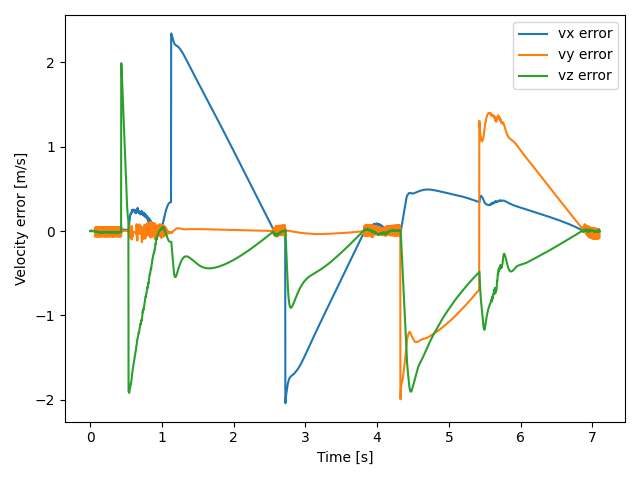
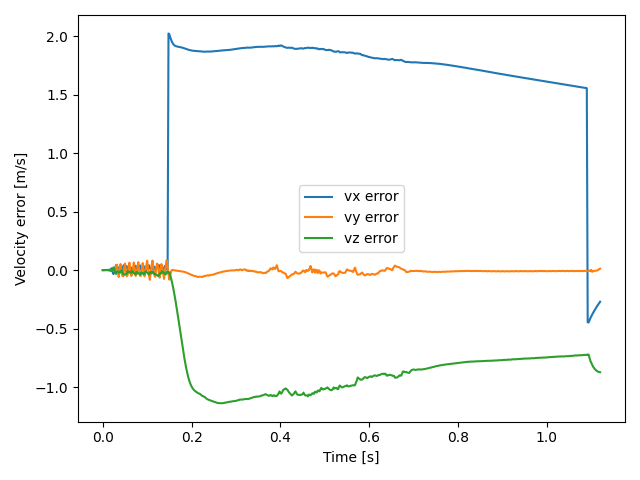
Add frequency control

diff --git a/stand_then_fly.py b/stand_then_fly.py
@@ -21,7 +21,7 @@ kp_thigh, kd_thigh = 80.0, 6.0
 kp_calf, kd_calf = 60.0, 4.0
 
 # PID gains for body position and orientation
-Kv = np.diag([40.0, 60.0, 40.0])
+Kv = np.diag([80.0, 80.0, 80.0])
 Ki_v = np.diag([0.3, 0.3, 0.4])
 KR = np.diag([9.0, 12.0, 12.0])
 Kw = np.diag([5.6, 5.6, 5.8])
@@ -35,13 +35,17 @@ u_max = 200.0                   # 见 xml 的 ctrlrange 上限
 
 g = None
 
-prev = {leg: 0.0 for leg in LEG}  # 上次 HAA 角度，用于奇异处回退
+prev_hip = {leg: 0.0 for leg in LEG}  # 上次 HAA 角度，用于奇异处回退
+prev_thigh = {leg: 0.0 for leg in LEG}       # 上次 HFE 角度，用于奇异处回退
+prev_u = {leg: 0.0 for leg in LEG}          # 上次喷口推力，用于平滑
 
 # Controller parameters
 f_prev = {leg: np.zeros(3) for leg in LEG}  # 上次喷口力向量，模是力
 eta_v = np.zeros(3) # 积分误差速度
 eta_tau = np.zeros(3)   # 积分误差角速度
 error_log = []  # (time, ev) samples for plotting
+
+last_f_star = None
 
 # Utility functions
 def get_R_from_xmat(xmat9):
@@ -204,7 +208,7 @@ def solve_hip_angles_from_body_dir(b_body_i, R_world_body, R_world_hip, alpha = 
 2. 内环 - 优化计算喷口推力（机体系） - 如何保证是突优化？
 R_d: 期望机体系在世界系的旋转矩阵
 '''
-def control(model, data, vd_body, rotation, J0, omega_d_desired=np.zeros(3), omegadot_d_desired=np.zeros(3)):
+def control(model, data, vd_body, rotation, J0, flag_c=False, omega_d_desired=np.zeros(3), omegadot_d_desired=np.zeros(3)):
     base_bid = mujoco.mj_name2id(model, mujoco.mjtObj.mjOBJ_BODY, "base")
     
     # 质量、惯量与姿态
@@ -279,45 +283,59 @@ def control(model, data, vd_body, rotation, J0, omega_d_desired=np.zeros(3), ome
 
     # 优化计算喷口推力
     u_max_list = [u_max for _ in LEG]
-    f_star, eF, eT = solve_thrusters_SOCP(Fd_body, tau_d, r_list, a_list, u_max_list,
-                                        f_prev=[f_prev[leg] for leg in LEG],
-                                        theta_max=theta_max, rho=rho)
+    if flag_c:
+        f_star, eF, eT = solve_thrusters_SOCP(Fd_body, tau_d, r_list, a_list, u_max_list,
+                                            f_prev=[f_prev[leg] for leg in LEG],
+                                            theta_max=theta_max, rho=rho)
     
-    u_cmd = np.linalg.norm(f_star, axis=1)
-    b_body = (f_star.T / (u_cmd + 1e-9)).T  # 4x3 单位方向
-    print(f"u_cmd: {u_cmd}")
-    # print(r_list)
-    # print(eF, eT)
-    # 反解关节角度
-    RR_flame_id = mujoco.mj_name2id(model, mujoco.mjtObj.mjOBJ_GEOM, "RR_flame")
-    RL_flame_id = mujoco.mj_name2id(model, mujoco.mjtObj.mjOBJ_GEOM, "RL_flame")
-    FR_flame_id = mujoco.mj_name2id(model, mujoco.mjtObj.mjOBJ_GEOM, "FR_flame")
-    FL_flame_id = mujoco.mj_name2id(model, mujoco.mjtObj.mjOBJ_GEOM, "FL_flame")
-    for i, leg in enumerate(LEG):
-        f_prev[leg] = f_star[i].copy()
-        R_world_hip  = get_R_from_xmat(data.xmat[hip_bid[leg]])
-        hip, thigh = solve_hip_angles_from_body_dir(
-        b_body_i = b_body[i],
-        R_world_body = R_world_body,
-        R_world_hip  = R_world_hip,
-        alpha = 0.909,
-        prev_qHAA = prev[leg])
-        prev[leg] = hip
-        
-        # # 写到 data.qpos
-        # data.qpos[model.jnt_qposadr[hip_jid[leg]]] = hip
-        # data.qpos[model.jnt_qposadr[thigh_jid[leg]]] = thigh
-        
-        # 电机PD控制
-        hip_act_id = actuator_for_joint(model, hip_jid[leg])
-        data.ctrl[hip_act_id] = pd_for_joint(model, data, hip_jid[leg], hip)
-        thigh_act_id = actuator_for_joint(model, thigh_jid[leg])
-        data.ctrl[thigh_act_id] = pd_for_joint(model, data, thigh_jid[leg], thigh)
-        data.ctrl[thr_act_id[leg]] = u_cmd[i]
+        u_cmd = np.linalg.norm(f_star, axis=1)
+        b_body = (f_star.T / (u_cmd + 1e-9)).T  # 4x3 单位方向
+        print(f"u_cmd: {u_cmd}")
+        # print(r_list)
+        # print(eF, eT)
+        # 反解关节角度
+        RR_flame_id = mujoco.mj_name2id(model, mujoco.mjtObj.mjOBJ_GEOM, "RR_flame")
+        RL_flame_id = mujoco.mj_name2id(model, mujoco.mjtObj.mjOBJ_GEOM, "RL_flame")
+        FR_flame_id = mujoco.mj_name2id(model, mujoco.mjtObj.mjOBJ_GEOM, "FR_flame")
+        FL_flame_id = mujoco.mj_name2id(model, mujoco.mjtObj.mjOBJ_GEOM, "FL_flame")
+        for i, leg in enumerate(LEG):
+            f_prev[leg] = f_star[i].copy()
+            R_world_hip  = get_R_from_xmat(data.xmat[hip_bid[leg]])
+            hip, thigh = solve_hip_angles_from_body_dir(
+            b_body_i = b_body[i],
+            R_world_body = R_world_body,
+            R_world_hip  = R_world_hip,
+            alpha = 0.909,
+            prev_qHAA = prev_hip[leg])
+            prev_hip[leg] = hip
+            prev_thigh[leg] = thigh
 
-        flame_id = mujoco.mj_name2id(model, mujoco.mjtObj.mjOBJ_GEOM, leg + "_flame")
-        brightness = min(1.0, u_cmd[i] / 50.0)
-        model.geom_rgba[flame_id, 3] = brightness
+            # # 写到 data.qpos
+            # data.qpos[model.jnt_qposadr[hip_jid[leg]]] = hip
+            # data.qpos[model.jnt_qposadr[thigh_jid[leg]]] = thigh
+            
+            # 电机PD控制
+            hip_act_id = actuator_for_joint(model, hip_jid[leg])
+            data.ctrl[hip_act_id] = pd_for_joint(model, data, hip_jid[leg], hip)
+            thigh_act_id = actuator_for_joint(model, thigh_jid[leg])
+            data.ctrl[thigh_act_id] = pd_for_joint(model, data, thigh_jid[leg], thigh)
+            data.ctrl[thr_act_id[leg]] = u_cmd[i]
+
+            flame_id = mujoco.mj_name2id(model, mujoco.mjtObj.mjOBJ_GEOM, leg + "_flame")
+            brightness = min(1.0, u_cmd[i] / 50.0)
+            model.geom_rgba[flame_id, 3] = brightness
+        
+    else:
+        for i, leg in enumerate(LEG):
+            hip_act_id = actuator_for_joint(model, hip_jid[leg])
+            data.ctrl[hip_act_id] = pd_for_joint(model, data, hip_jid[leg], prev_hip[leg])
+            thigh_act_id = actuator_for_joint(model, thigh_jid[leg])
+            data.ctrl[thigh_act_id] = pd_for_joint(model, data, thigh_jid[leg], prev_thigh[leg])
+            data.ctrl[thr_act_id[leg]] = prev_u[leg]
+
+            flame_id = mujoco.mj_name2id(model, mujoco.mjtObj.mjOBJ_GEOM, leg + "_flame")
+            brightness = min(1.0, prev_u[leg] / 50.0)
+            model.geom_rgba[flame_id, 3] = brightness
 
 def save_virtual_control_error_plot(path="virtual_control_error.png"):
     if not error_log:
@@ -343,7 +361,7 @@ def stand_then_fly(model_path=os.path.join("unitree_go2", "scene_moon.xml")):
     model = mujoco.MjModel.from_xml_path(model_path)
     data = mujoco.MjData(model)
     base_bid = mujoco.mj_name2id(model, mujoco.mjtObj.mjOBJ_BODY, "base")
-    
+    period = 0.002
     
     target_angles = {
         "hip": 0.0,
@@ -368,7 +386,8 @@ def stand_then_fly(model_path=os.path.join("unitree_go2", "scene_moon.xml")):
     J0 = np.array([[cin[0], cin[3], cin[4]],
                  [cin[3], cin[1], cin[5]],
                  [cin[4], cin[5], cin[2]]])
-    
+    next_t = data.time + period
+    flag_c = True
     with mujoco.viewer.launch_passive(model, data) as viewer:
         last_log = 0.0
         while viewer.is_running():
@@ -386,6 +405,10 @@ def stand_then_fly(model_path=os.path.join("unitree_go2", "scene_moon.xml")):
             #     data.ctrl[a_id] = pd_for_joint(model, data, calf_j, target_angles["calf"])
     
             # Keyboard control
+            if data.time + 1e-12 >= next_t:
+                flag_c = True
+                next_t += period
+            
             control_target = keyboard_controller.control_target.copy()
             # Flight control
             if keyboard_controller.flags['reset']:
@@ -409,9 +432,10 @@ def stand_then_fly(model_path=os.path.join("unitree_go2", "scene_moon.xml")):
                     model.geom_rgba[flame_id, 3] = brightness
                     
             else:
-                control(model, data, control_target[:3], control_target[3:6], J0) 
+                control(model, data, control_target[:3], control_target[3:6], J0, flag_c) 
             # print(control_target[:3])
             # print(f"t = {data.time:.6f} s")
+            flag_c = False
             mujoco.mj_step(model, data)
             viewer.sync()
     save_virtual_control_error_plot()
